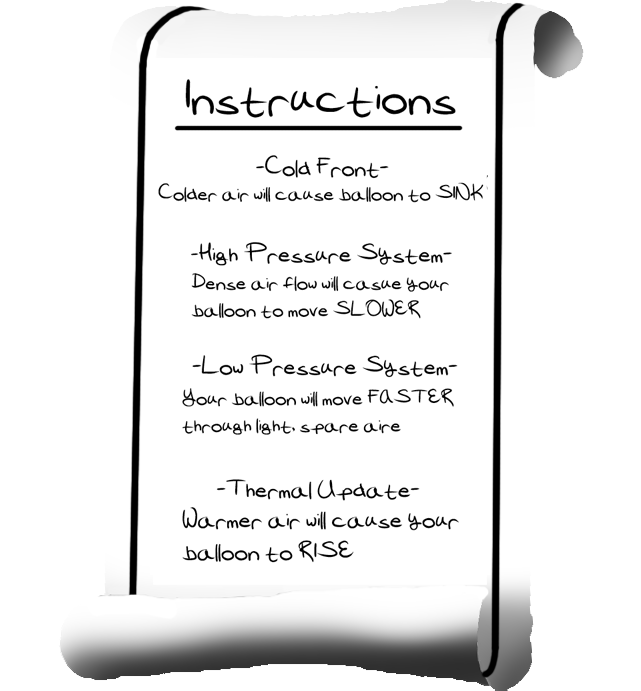
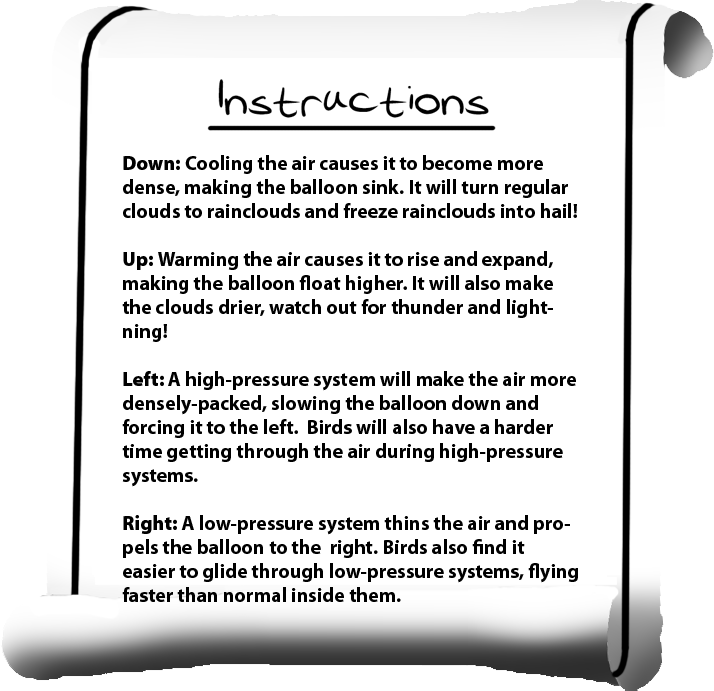
Intructions up. Tutorial fixed.

diff --git a/Code/Game/Balloon.cs b/Code/Game/Balloon.cs
@@ -86,10 +86,10 @@ namespace Sputnik.Game
 		private Sequence [] animations;
 
 		//Enabling and disabling controls
-		public bool enableUp;
-		public bool enableDown;
-		public bool enableRight;
-		public bool enableLeft;
+		public bool enableUp = true;
+		public bool enableDown = true;
+		public bool enableRight = true;
+		public bool enableLeft = true;
 		private bool endingDescent;
 		private float descentDelay;
 
@@ -105,6 +105,12 @@ namespace Sputnik.Game
 			Position = sp.Position;
             Environment.Camera.MoveSpeed = Environment.defaultCameraMoveSpeed;
             Environment.Camera.Position = new Vector2(Position.X + 350, GameEnvironment.k_idealScreenSize.Y * 0.5f);
+
+
+			enableLeft = !SpawnPoint.Properties.ContainsKey("left") || SpawnPoint.Properties["left"] == "true";
+			enableRight = !SpawnPoint.Properties.ContainsKey("right") || SpawnPoint.Properties["right"] == "true";
+			enableUp = !SpawnPoint.Properties.ContainsKey("up") || SpawnPoint.Properties["up"] == "true";
+			enableDown = !SpawnPoint.Properties.ContainsKey("down") || SpawnPoint.Properties["down"] == "true";
 			Initialize();
 		}
 		private void up()
@@ -121,10 +127,6 @@ namespace Sputnik.Game
 			Scale = 0.5f;
 			m_dead = false;
 
-			enableUp = true;
-			enableDown = true;
-			enableRight = true;
-			enableLeft = true;
 			endingDescent = false;
 
 			currentState = BALLOON_STATE.INVULNERABLE;
@@ -403,30 +405,27 @@ namespace Sputnik.Game
 			dirX = 0;
 			dirY = 0;
 
-			if (((keyState.IsKeyDown(Keys.Up))
+			if (enableUp && (keyState.IsKeyDown(Keys.Up)
 				|| padState.IsButtonDown(Buttons.DPadUp)
-                || padState.ThumbSticks.Left.Y > threshold) 
-				&& enableUp) --dirY;
-			if ((keyState.IsKeyDown(Keys.Down) 
-				|| padState.IsButtonDown(Buttons.DPadDown) 
-                || (padState.ThumbSticks.Left.Y < -threshold)
-				&& enableDown) 
-				|| endingDescent ) ++dirY;
+                || padState.ThumbSticks.Left.Y > threshold)) --dirY;
 
-			if ((keyState.IsKeyDown(Keys.Left)
+			if ((enableDown && (keyState.IsKeyDown(Keys.Down) 
+				|| padState.IsButtonDown(Buttons.DPadDown) 
+                || padState.ThumbSticks.Left.Y < -threshold
+				)) || endingDescent ) ++dirY;
+
+			if (enableLeft && (keyState.IsKeyDown(Keys.Left)
 				|| padState.IsButtonDown(Buttons.DPadLeft)
-				|| padState.ThumbSticks.Left.X < -threshold)
-				&& enableLeft)
+				|| padState.ThumbSticks.Left.X < -threshold))
 			{
 				Environment.Camera.EffectScale = 1.0f + 2*zoomAmount;
 				--dirX;
 			} 
 
-			if (((keyState.IsKeyDown(Keys.Right)
+			if ((enableRight && (keyState.IsKeyDown(Keys.Right)
 				|| padState.IsButtonDown(Buttons.DPadRight)
-				|| padState.ThumbSticks.Left.X > threshold)
-				&& enableRight)
-				|| endingDescent)
+				|| padState.ThumbSticks.Left.X > threshold
+				)) || endingDescent)
 			{
 				Environment.Camera.EffectScale = 1.0f;
 				++dirX;
@@ -614,6 +613,15 @@ namespace Sputnik.Game
 				//    }
 				//}
 			}
+		}
+
+		public override void OnCull()
+		{
+			SpawnPoint.Properties["left"] = enableLeft ? "true" : "false";
+			SpawnPoint.Properties["right"] = enableRight ? "true" : "false";
+			SpawnPoint.Properties["down"] = enableDown ? "true" : "false";
+			SpawnPoint.Properties["up"] = enableUp ? "true" : "false";
+			base.OnCull();
 		}
 
 		public override void OnCollide(Entity entB, FarseerPhysics.Dynamics.Contacts.Contact contact)

diff --git a/Code/Menus/SplashScreen.cs b/Code/Menus/SplashScreen.cs
@@ -32,20 +32,11 @@ namespace Sputnik.Menus {
 		private State m_state;
 
 		public override void Update(float elapsedTime) {
-			KeyboardState kb = Keyboard.GetState();
-			MouseState ms = Mouse.GetState();
-			GamePadState gp = GamePad.GetState(PlayerIndex.One);
 
 			switch (m_state) {
 				case State.Waiting:
-					if (m_timer <= 0.0f
-							|| kb.IsKeyDown(Keys.Escape)
-							|| kb.IsKeyDown(Keys.Space)
-							|| (ms.LeftButton == ButtonState.Pressed &&
-									ms.X >= 0 && ms.Y >= 0 && ms.X < ScreenSize.X && ms.Y < ScreenSize.Y)
-							|| gp.Buttons.Start == ButtonState.Pressed
-							|| gp.Buttons.A == ButtonState.Pressed
-							|| gp.Buttons.B == ButtonState.Pressed) {
+					if (m_timer <= 0.0f || canAdvance())  
+					{
 						m_state = State.Fading;
 						m_timer = k_fadeTime;
 					}

diff --git a/Code/Menus/PopUp.cs b/Code/Menus/PopUp.cs
@@ -31,19 +31,8 @@ namespace Sputnik.Menus
             if (!m_justPaused)
             {
 				//Code taken from credits
-					KeyboardState kb = Keyboard.GetState();
-					MouseState ms = Mouse.GetState();
-					GamePadState gp = GamePad.GetState(PlayerIndex.One);
 
-					if ((quitKey == Keys.Enter) && (
-						kb.IsKeyDown(Keys.Escape)
-						|| kb.IsKeyDown(Keys.Space)
-						|| (ms.LeftButton == ButtonState.Pressed &&
-								ms.X >= 0 && ms.Y >= 0 && ms.X < ScreenSize.X && ms.Y < ScreenSize.Y)
-						|| gp.Buttons.Start == ButtonState.Pressed
-						|| gp.Buttons.A == ButtonState.Pressed
-						|| gp.Buttons.B == ButtonState.Pressed)
-					)
+					if (quitKey == Keys.Enter && canAdvance())
 					{
 						unPause();
 					}

diff --git a/Code/Menus/Menu.cs b/Code/Menus/Menu.cs
@@ -87,5 +87,21 @@ namespace Sputnik.Menus {
 			DrawChildren(m_spriteBatch);
 			m_spriteBatch.End();
 		}
+
+		public bool canAdvance()
+		{
+			KeyboardState kb = Keyboard.GetState();
+			MouseState ms = Mouse.GetState();
+			GamePadState gp = GamePad.GetState(PlayerIndex.One);
+
+			return (kb.IsKeyDown(Keys.Escape)
+				|| kb.IsKeyDown(Keys.Space)
+				|| (ms.LeftButton == ButtonState.Pressed &&
+						ms.X >= 0 && ms.Y >= 0 && ms.X < ScreenSize.X && ms.Y < ScreenSize.Y)
+				|| gp.Buttons.Start == ButtonState.Pressed
+				|| gp.Buttons.A == ButtonState.Pressed
+				|| gp.Buttons.B == ButtonState.Pressed
+				|| (kb.IsKeyDown(Keys.Enter) && !(kb.IsKeyDown(Keys.LeftAlt)|| kb.IsKeyDown(Keys.RightAlt))));
+		}
 	}
 }

diff --git a/Code/Menus/Credits.cs b/Code/Menus/Credits.cs
@@ -33,18 +33,9 @@ namespace Sputnik.Menus {
 		}
 
 		public override void Update(float elapsedTime) {
-			KeyboardState kb = Keyboard.GetState();
-			MouseState ms = Mouse.GetState();
-			GamePadState gp = GamePad.GetState(PlayerIndex.One);
+
 			
-			if (CreditsDone()
-					|| kb.IsKeyDown(Keys.Escape)
-					|| kb.IsKeyDown(Keys.Space)
-					|| (ms.LeftButton == ButtonState.Pressed &&
-							ms.X >= 0 && ms.Y >= 0 && ms.X < ScreenSize.X && ms.Y < ScreenSize.Y)
-					|| gp.Buttons.Start == ButtonState.Pressed
-					|| gp.Buttons.A == ButtonState.Pressed
-					|| gp.Buttons.B == ButtonState.Pressed) {
+			if (CreditsDone() || canAdvance()) {
 				Controller.ChangeEnvironment(new MainMenu(Controller));
 			}
 

diff --git a/Code/Menus/FaderOuter.cs b/Code/Menus/FaderOuter.cs
@@ -15,6 +15,7 @@ namespace Sputnik.Menus
 		Environment environment;
 		private bool fadingOut;
 		private float fadePerSecond;
+		public bool fadedOut;
 
 		public float FillPercent = 1.0f;
 		public FaderOuter(Environment env, float width, float height)
@@ -26,6 +27,7 @@ namespace Sputnik.Menus
 			FullWidth = width;
 			fadingOut = false;
 			Zindex = 0.1f;
+			fadedOut = false;
 
 			Texture2D dummyTexture = new Texture2D(env.Controller.GraphicsDevice, 1, 1);
 			dummyTexture.SetData(new Color[] { Color.White });
@@ -45,6 +47,8 @@ namespace Sputnik.Menus
 			if (fadingOut)
 			{
 				Alpha += elapsedTime * fadePerSecond;
+				if (Alpha >= 1.0f)
+					fadedOut = true;
 			}
 		}
 

diff --git a/Code/Game/TestLevelEnvironment.cs b/Code/Game/TestLevelEnvironment.cs
@@ -9,9 +9,10 @@ namespace Sputnik.Game {
 		public TestLevelEnvironment(Controller ctrl)
 			: base(ctrl) {
 
-			LoadMap("LevelDesignSix.tmx");
+			/*LoadMap("LevelDesignSix.tmx");
             LoadOrExtendMap("LevelDesignFour.tmx");
-            LoadOrExtendMap("LevelDesignOne.tmx");
+            LoadOrExtendMap("LevelDesignOne.tmx");*/
+				LoadMap("TestLevel.tmx");
 
 			AddChild(new RepeatingBackground(this));
 			AddChild(new Moon(this));

diff --git a/Code/Game/EndGameTrigger.cs b/Code/Game/EndGameTrigger.cs
@@ -31,7 +31,12 @@ namespace Sputnik.Game
 			else delay = 0.0f;
 			balloon.goToEndSequence(delay);
 			Environment.fade = true;
-			if (game.FadeOut.Alpha > 1.0f && !game.paused)
+		}
+
+		public override void Update(float elapsedTime)
+		{
+			base.Update(elapsedTime);
+			if (game.FadeOut.fadedOut)
 			{
 				game.pause(new EndPopUp(game.Controller, game));
 				Sound.PlayCue("scroll");

diff --git a/Code/Game/PopUpTrigger.cs b/Code/Game/PopUpTrigger.cs
@@ -32,7 +32,7 @@ namespace Sputnik.Game
                 game.pause(new TutorialPopUp(game.Controller, game, Keys.Up));
 			if (TutorialType == "TempDown")
                 game.pause(new TutorialPopUp(game.Controller, game, Keys.Down));
-			CollisionBody.Active = false;
+			 spawnPoint.AllowRespawn = false;
 		}
     }
 }

diff --git a/Code/Menus/MainMenu.cs b/Code/Menus/MainMenu.cs
@@ -167,7 +167,7 @@ namespace Sputnik.Menus
 
 		void onPressInstructions()
 		{
-			//need intructions;
+			Controller.ChangeEnvironment(new Instructions(Controller));
 		}
 
 		void onPressCredits()

diff --git a/Code/Menus/TutorialPopUp.cs b/Code/Menus/TutorialPopUp.cs
@@ -109,7 +109,6 @@ namespace Sputnik.Menus
 
 		protected override void  unPause()
 		{
-			System.Threading.Thread.Sleep(1500);
 			switch (quitKey)
 			{
 				case Keys.Up:
